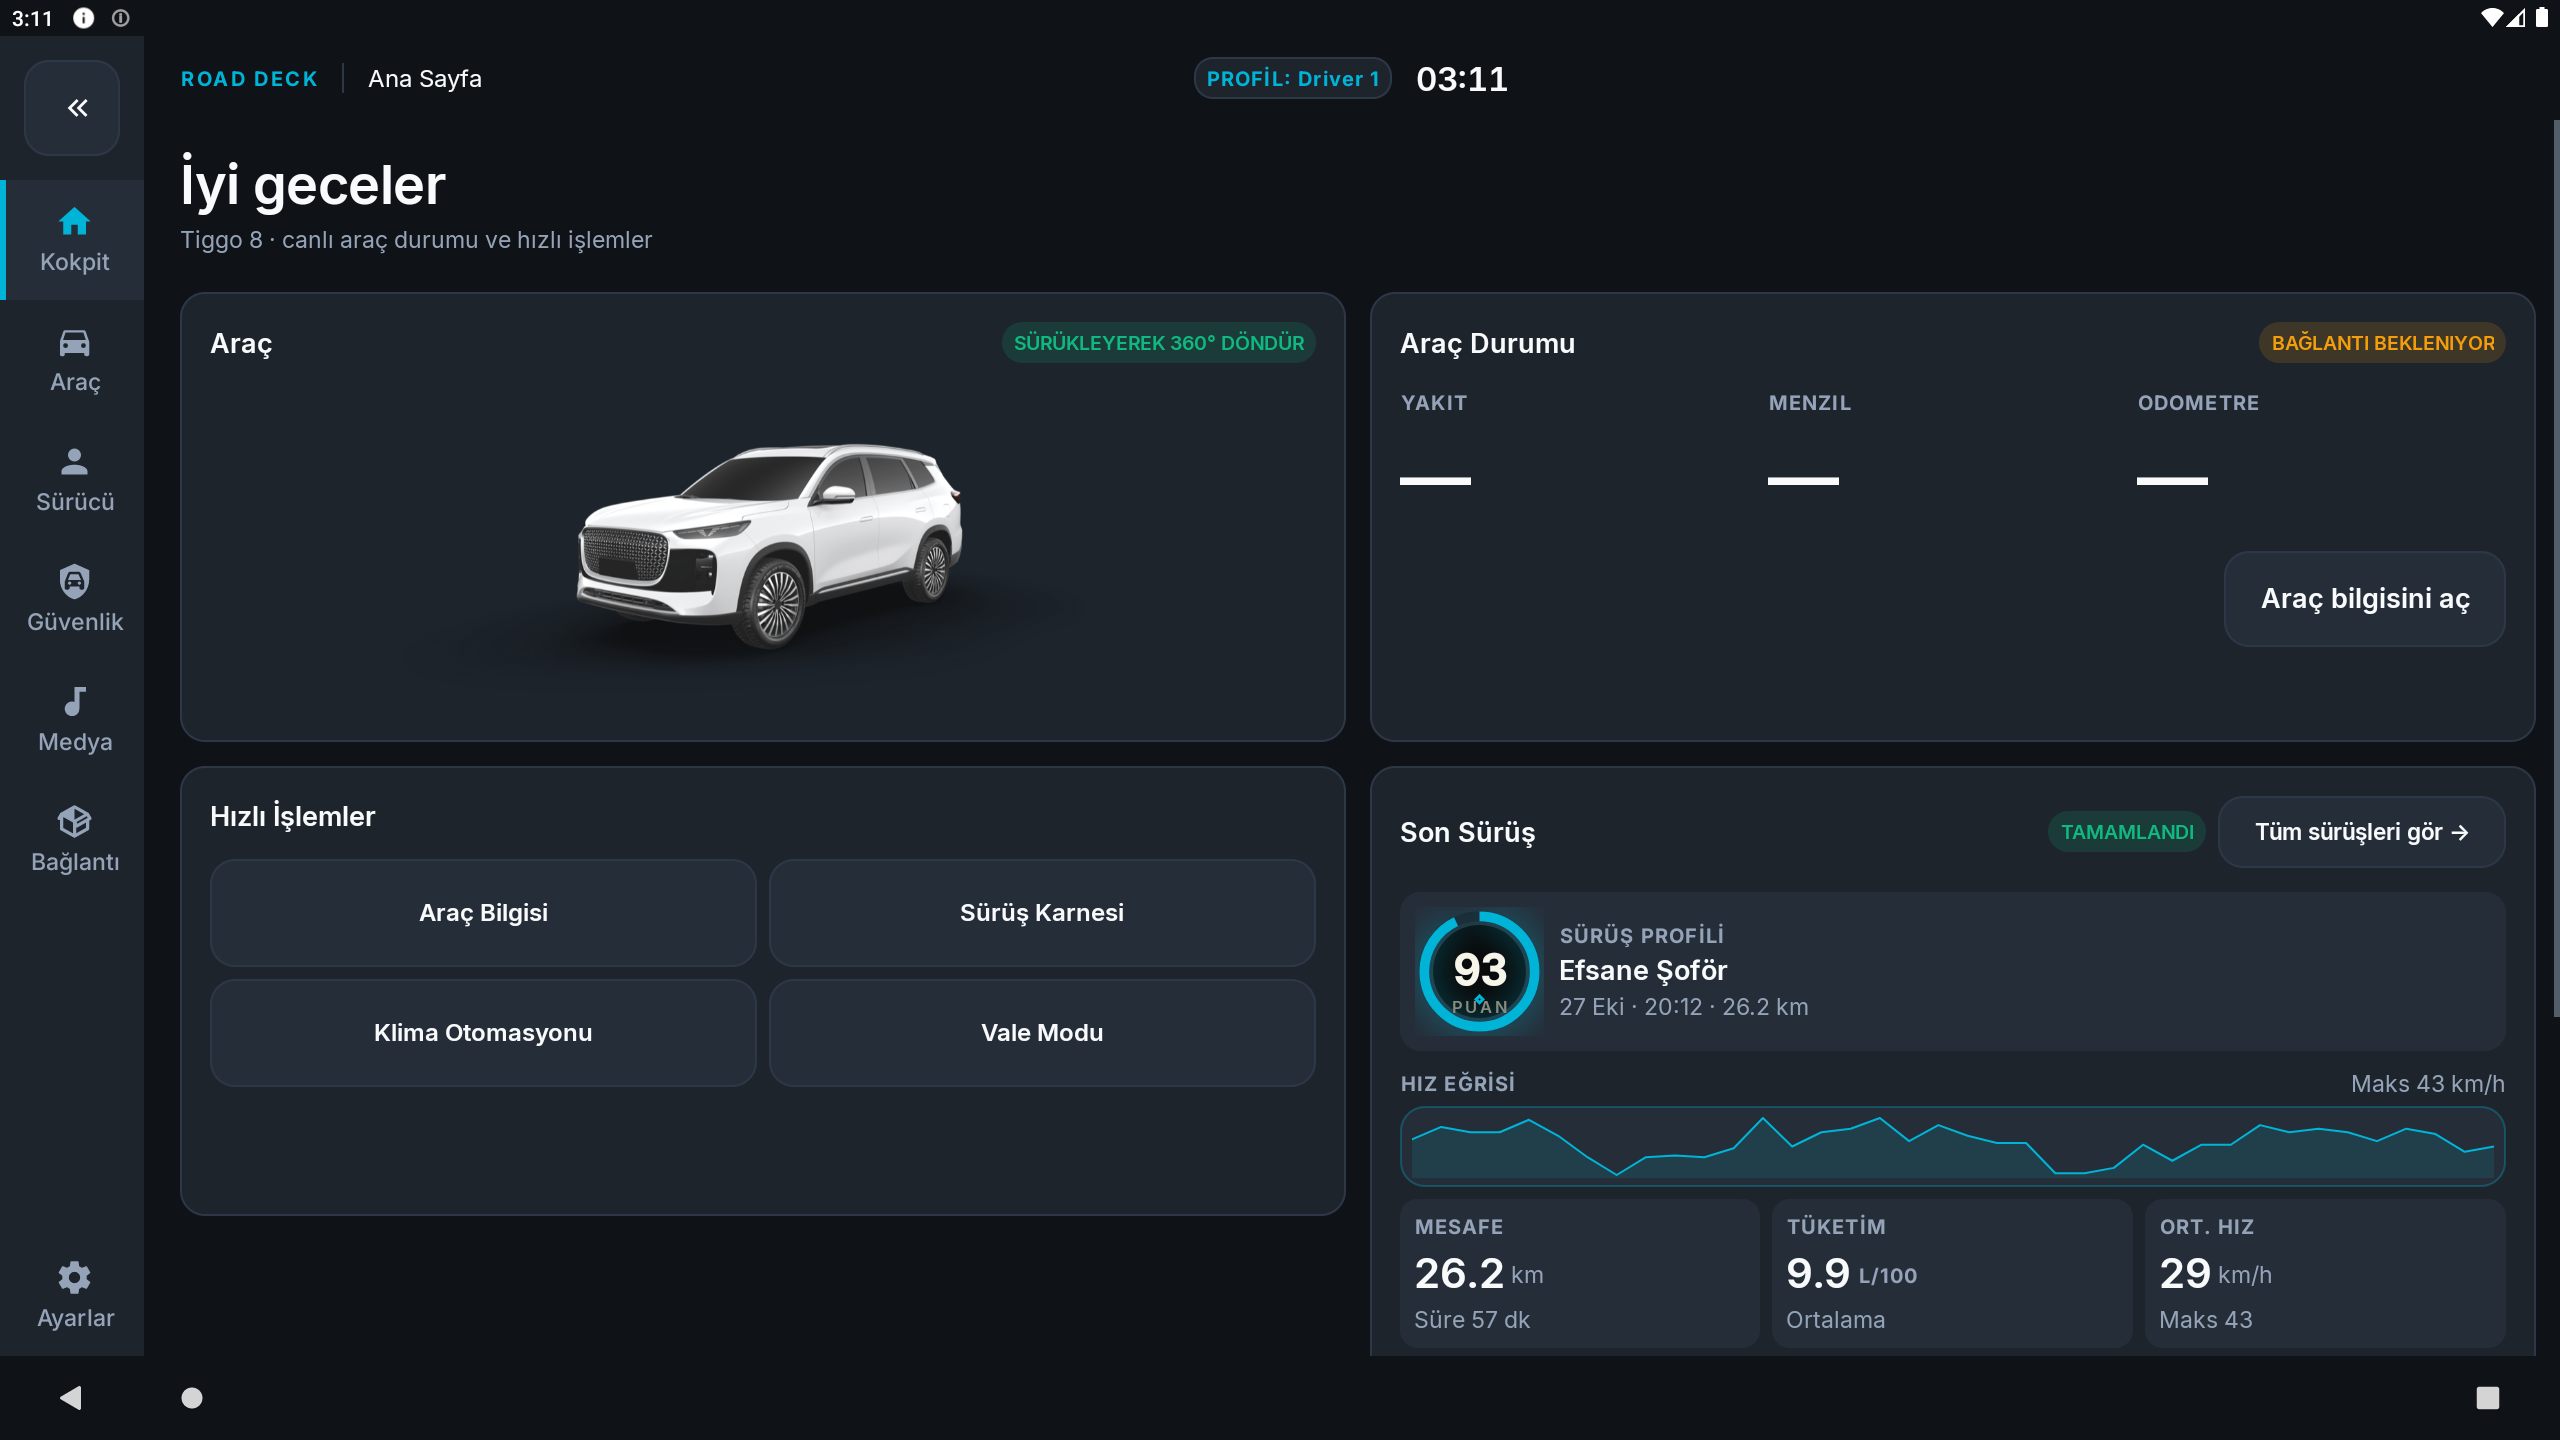
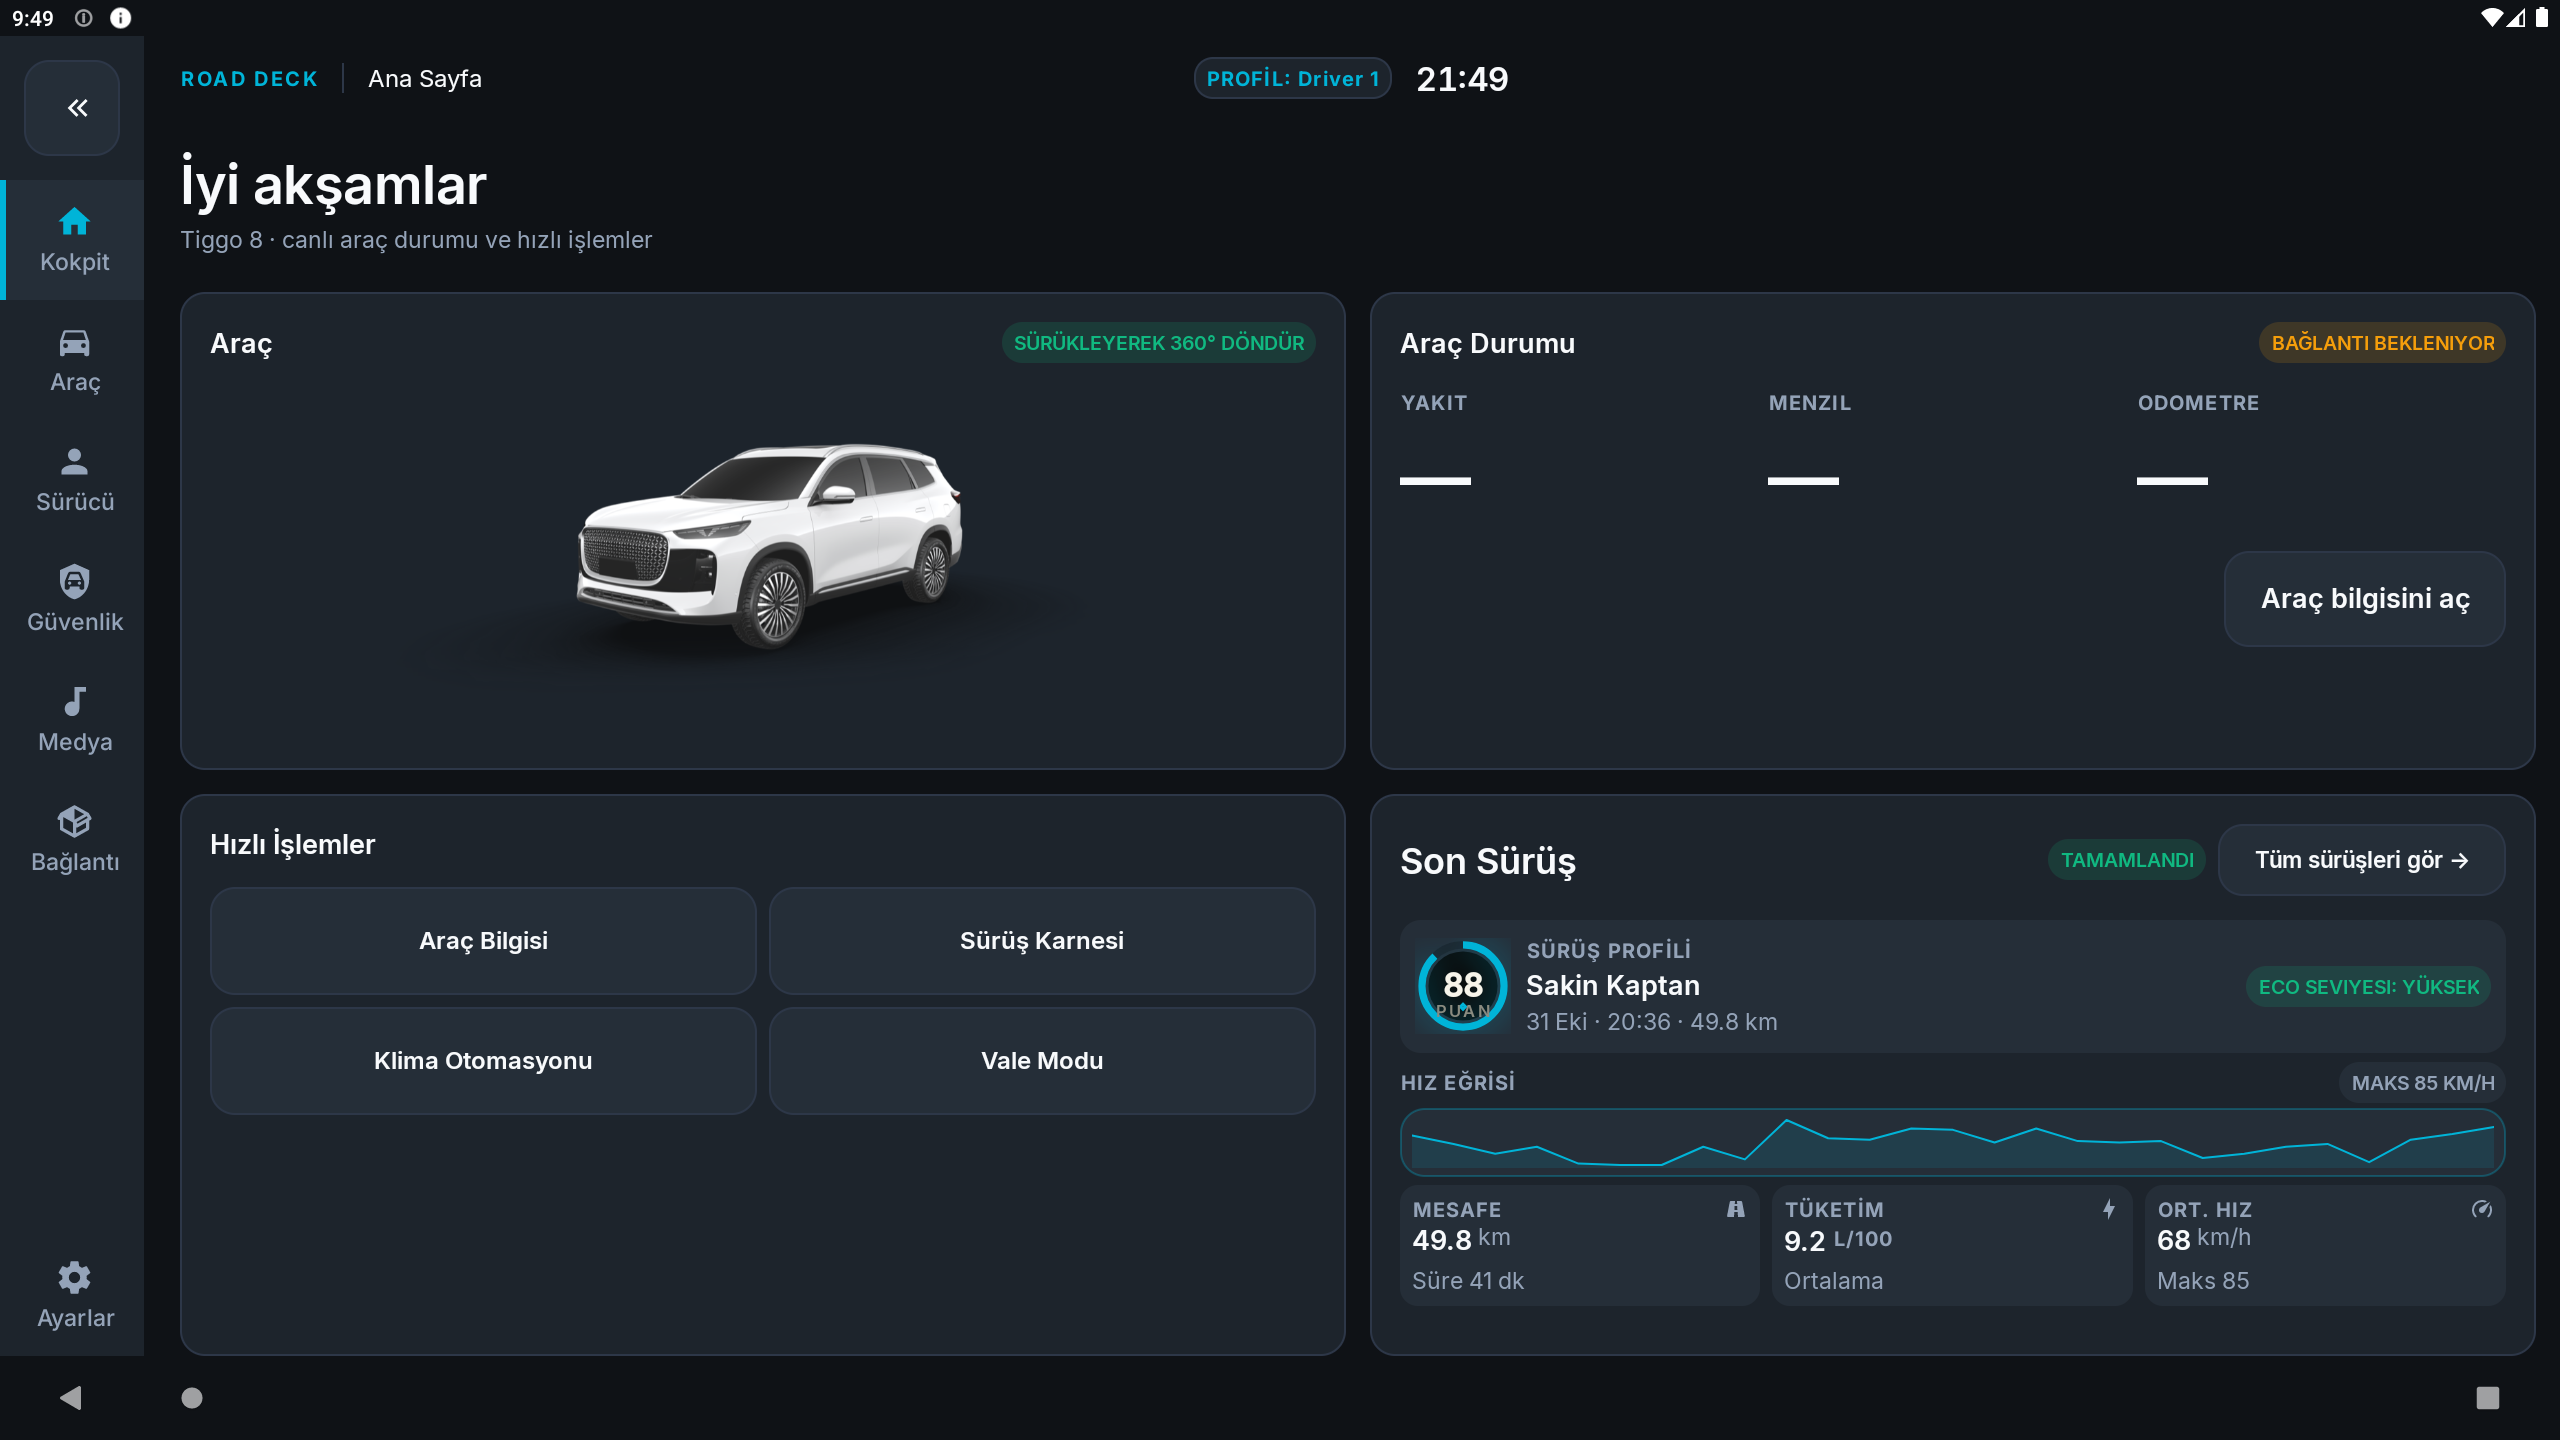
style: son surus kartini referans duzenine yaklastir
- Buyuk baslik, tamamlandi rozeti ve tum surusler aksiyonu
- Skor profili, Eco seviyesi ve tarih/mesafe bandi
- Hiz egrisi ve maks hiz rozeti
- Ikonlu mesafe/tuketim/ortalama hiz metrikleri
- Ikinci satir yuksekligi artirilarak metrik captionlari sigdirildi

diff --git a/app/src/main/java/com/mapcontrol/ui/builder/HomeTabBuilder.java b/app/src/main/java/com/mapcontrol/ui/builder/HomeTabBuilder.java
@@ -6,6 +6,7 @@ import android.graphics.Color;
 import android.graphics.drawable.GradientDrawable;
 import android.view.Gravity;
 import android.view.View;
+import android.widget.ImageView;
 import android.widget.LinearLayout;
 import android.widget.ScrollView;
 import android.widget.TextView;
@@ -134,6 +135,9 @@ public class HomeTabBuilder implements VehicleMetricsRepository.Listener {
             grid.addFullWidth(valet);
         }
         grid.finish();
+        if (fillHeight && grid.getChildCount() >= 2) {
+            grid.setRowWeights(0.92f, 1.08f);
+        }
     }
 
     private View buildHero() {
@@ -299,6 +303,7 @@ public class HomeTabBuilder implements VehicleMetricsRepository.Listener {
         CockpitCard card = new CockpitCard(context,
                 context.getString(R.string.ck_home_last_drive)).span(4);
         card.setMinimumHeight(dp(300));
+        card.getTitleView().setTextSize(android.util.TypedValue.COMPLEX_UNIT_SP, 24);
         DrivingSessionRecorder recorder = DrivingSessionRecorder.get(context);
         DrivingTrip trip = recorder.isActive() ? recorder.getDisplayTrip() : recorder.getLastTrip();
         if (trip == null) {
@@ -384,6 +389,18 @@ public class HomeTabBuilder implements VehicleMetricsRepository.Listener {
         profileMeta.setTextColor(CockpitTokens.color(context, R.color.ck_text_medium));
         copy.addView(profileMeta);
 
+        int ecoLevel = trip.score >= 85 ? StatusBadge.NOMINAL
+                : (trip.score >= 65 ? StatusBadge.ADVISORY : StatusBadge.NEUTRAL);
+        String ecoText = context.getString(trip.score >= 85
+                ? R.string.ck_home_eco_high
+                : (trip.score >= 65 ? R.string.ck_home_eco_medium : R.string.ck_home_eco_low));
+        StatusBadge ecoBadge = StatusBadge.neutral(context, ecoText);
+        ecoBadge.setLevel(ecoLevel);
+        LinearLayout.LayoutParams ecoLp = new LinearLayout.LayoutParams(
+                LinearLayout.LayoutParams.WRAP_CONTENT, LinearLayout.LayoutParams.WRAP_CONTENT);
+        ecoLp.leftMargin = dp(8);
+        hero.addView(ecoBadge, ecoLp);
+
         card.addContent(hero);
 
         if (trip.speedSamples != null && trip.speedSamples.size() >= 2) {
@@ -403,10 +420,8 @@ public class HomeTabBuilder implements VehicleMetricsRepository.Listener {
             chartHeader.addView(chartLabel, new LinearLayout.LayoutParams(0,
                     LinearLayout.LayoutParams.WRAP_CONTENT, 1f));
 
-            TextView chartMax = new TextView(context);
-            CockpitTokens.bodySm(chartMax);
-            chartMax.setText("Maks " + trip.maxSpeedKmh + " km/h");
-            chartMax.setTextColor(CockpitTokens.color(context, R.color.ck_text_medium));
+            StatusBadge chartMax = StatusBadge.neutral(context,
+                    context.getString(R.string.ck_home_max_speed, trip.maxSpeedKmh));
             chartHeader.addView(chartMax);
 
             Sparkline sparkline = new Sparkline(context);
@@ -422,7 +437,7 @@ public class HomeTabBuilder implements VehicleMetricsRepository.Listener {
             chartBox.setPadding(dp(8), dp(6), dp(8), dp(6));
             CockpitSurfaces.level2(chartBox);
             chartBox.addView(sparkline, new LinearLayout.LayoutParams(
-                    LinearLayout.LayoutParams.MATCH_PARENT, dp(28)));
+                    LinearLayout.LayoutParams.MATCH_PARENT, dp(34)));
             LinearLayout.LayoutParams chartLp = new LinearLayout.LayoutParams(
                     LinearLayout.LayoutParams.MATCH_PARENT,
                     LinearLayout.LayoutParams.WRAP_CONTENT);
@@ -442,25 +457,25 @@ public class HomeTabBuilder implements VehicleMetricsRepository.Listener {
         metrics.addView(buildTelemetryMetric(
                         context.getString(R.string.driving_history_metric_distance),
                         String.format(Locale.getDefault(), "%.1f", trip.distanceKm),
-                        "km", "Süre " + formatDuration(trip.durationSec)),
+                        "km", "Süre " + formatDuration(trip.durationSec), R.drawable.ic_mdi_road_variant),
                 weightedMetric(0));
         metrics.addView(buildTelemetryMetric(
                         context.getString(R.string.driving_history_metric_consumption),
                         trip.consumptionL100 > 0
                                 ? String.format(Locale.getDefault(), "%.1f", trip.consumptionL100) : "—",
-                        "L/100", "Ortalama"),
+                        "L/100", "Ortalama", R.drawable.ic_mdi_lightning_bolt),
                 weightedMetric(1));
         metrics.addView(buildTelemetryMetric(
                         context.getString(R.string.driving_history_metric_avg),
                         String.valueOf(trip.avgSpeedKmh),
-                        "km/h", "Maks " + trip.maxSpeedKmh),
+                        "km/h", "Maks " + trip.maxSpeedKmh, R.drawable.ic_mdi_speedometer),
                 weightedMetric(2));
 
         return card;
     }
 
     private LinearLayout buildTelemetryMetric(String label, String value,
-            String unit, String caption) {
+            String unit, String caption, int iconRes) {
         LinearLayout box = new LinearLayout(context);
         box.setOrientation(LinearLayout.VERTICAL);
         box.setPadding(dp(8), dp(6), dp(8), dp(6));
@@ -469,11 +484,20 @@ public class HomeTabBuilder implements VehicleMetricsRepository.Listener {
         bg.setCornerRadius(dp(12));
         box.setBackground(bg);
 
+        LinearLayout labelRow = new LinearLayout(context);
+        labelRow.setOrientation(LinearLayout.HORIZONTAL);
+        labelRow.setGravity(Gravity.CENTER_VERTICAL);
         TextView labelView = new TextView(context);
         CockpitTokens.labelCaps(labelView);
         labelView.setText(label);
         labelView.setTextColor(CockpitTokens.color(context, R.color.ck_text_medium));
-        box.addView(labelView);
+        labelRow.addView(labelView, new LinearLayout.LayoutParams(0,
+                LinearLayout.LayoutParams.WRAP_CONTENT, 1f));
+        ImageView icon = new ImageView(context);
+        icon.setImageResource(iconRes);
+        icon.setColorFilter(CockpitTokens.color(context, R.color.ck_text_medium));
+        labelRow.addView(icon, new LinearLayout.LayoutParams(dp(16), dp(16)));
+        box.addView(labelRow);
 
         LinearLayout valueRow = new LinearLayout(context);
         valueRow.setOrientation(LinearLayout.HORIZONTAL);

diff --git a/app/src/main/java/com/mapcontrol/ui/cockpit/CockpitGrid.java b/app/src/main/java/com/mapcontrol/ui/cockpit/CockpitGrid.java
@@ -56,6 +56,16 @@ public class CockpitGrid extends LinearLayout {
         used = COLUMNS;
     }
 
+    public void setRowWeights(float... weights) {
+        if (weights == null) return;
+        for (int i = 0; i < getChildCount() && i < weights.length; i++) {
+            View row = getChildAt(i);
+            LayoutParams lp = (LayoutParams) row.getLayoutParams();
+            lp.weight = weights[i];
+            row.setLayoutParams(lp);
+        }
+    }
+
     public void finish() {
         if (fillHeight && currentRow != null) {
             LayoutParams lp = (LayoutParams) currentRow.getLayoutParams();
